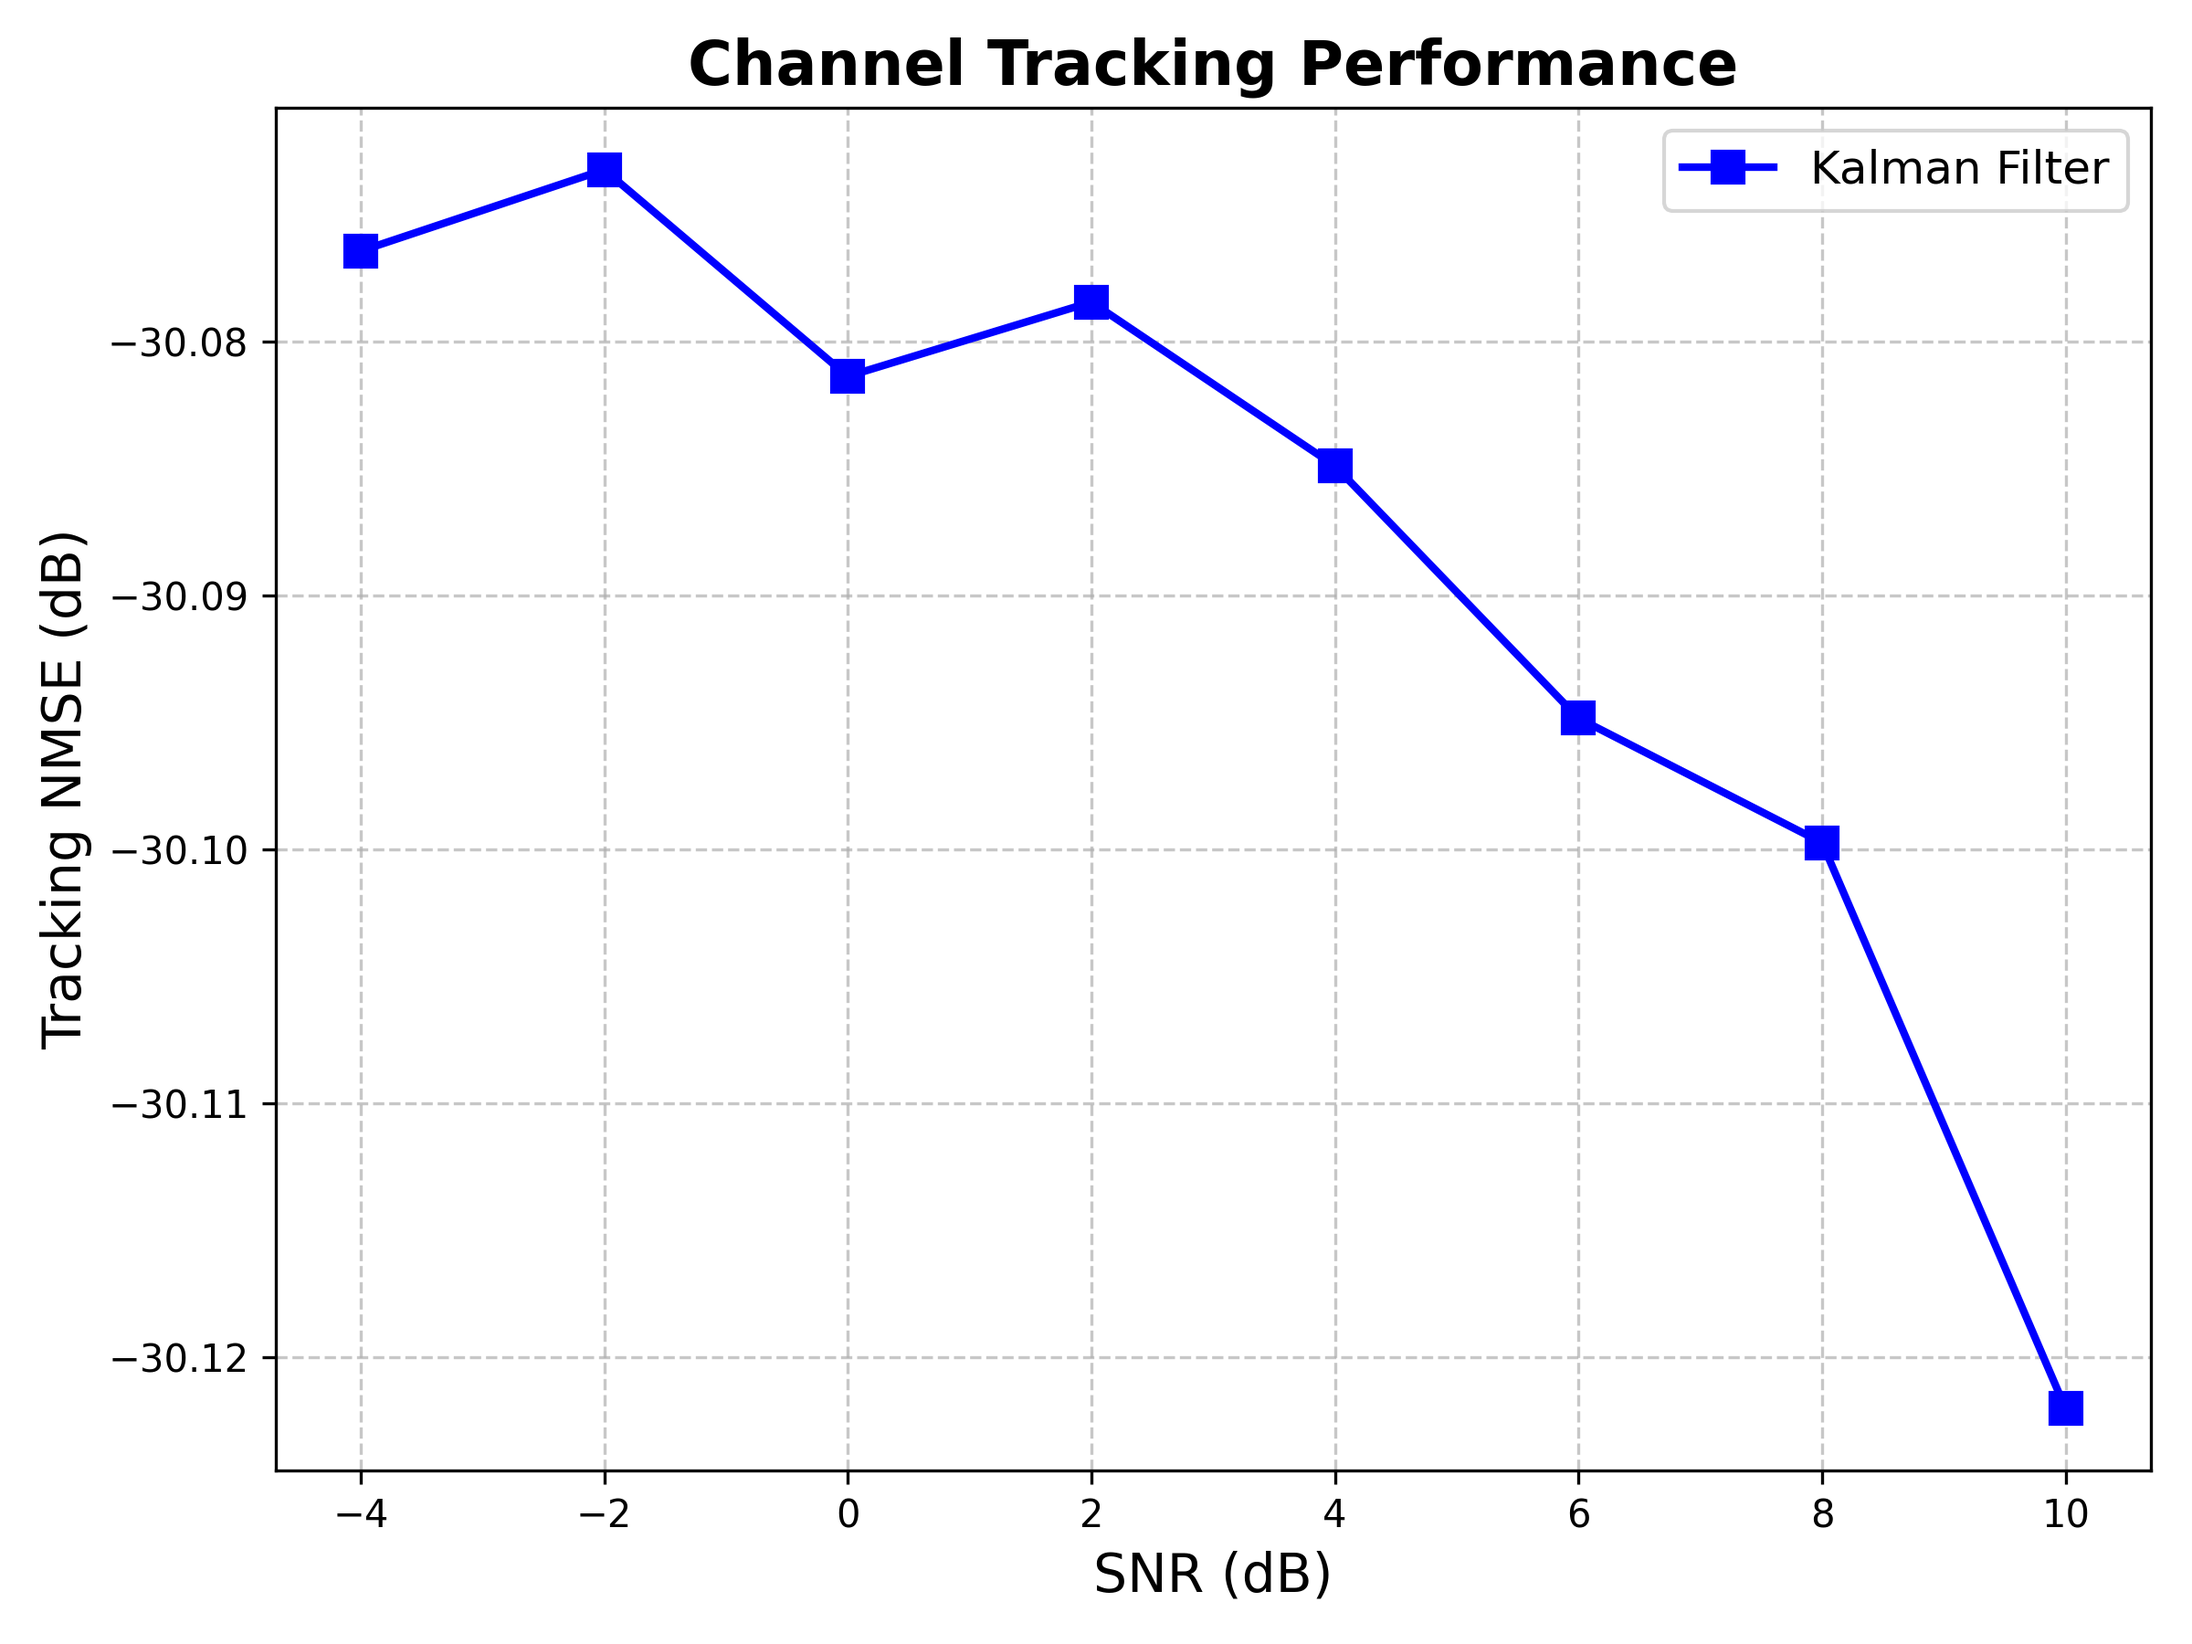
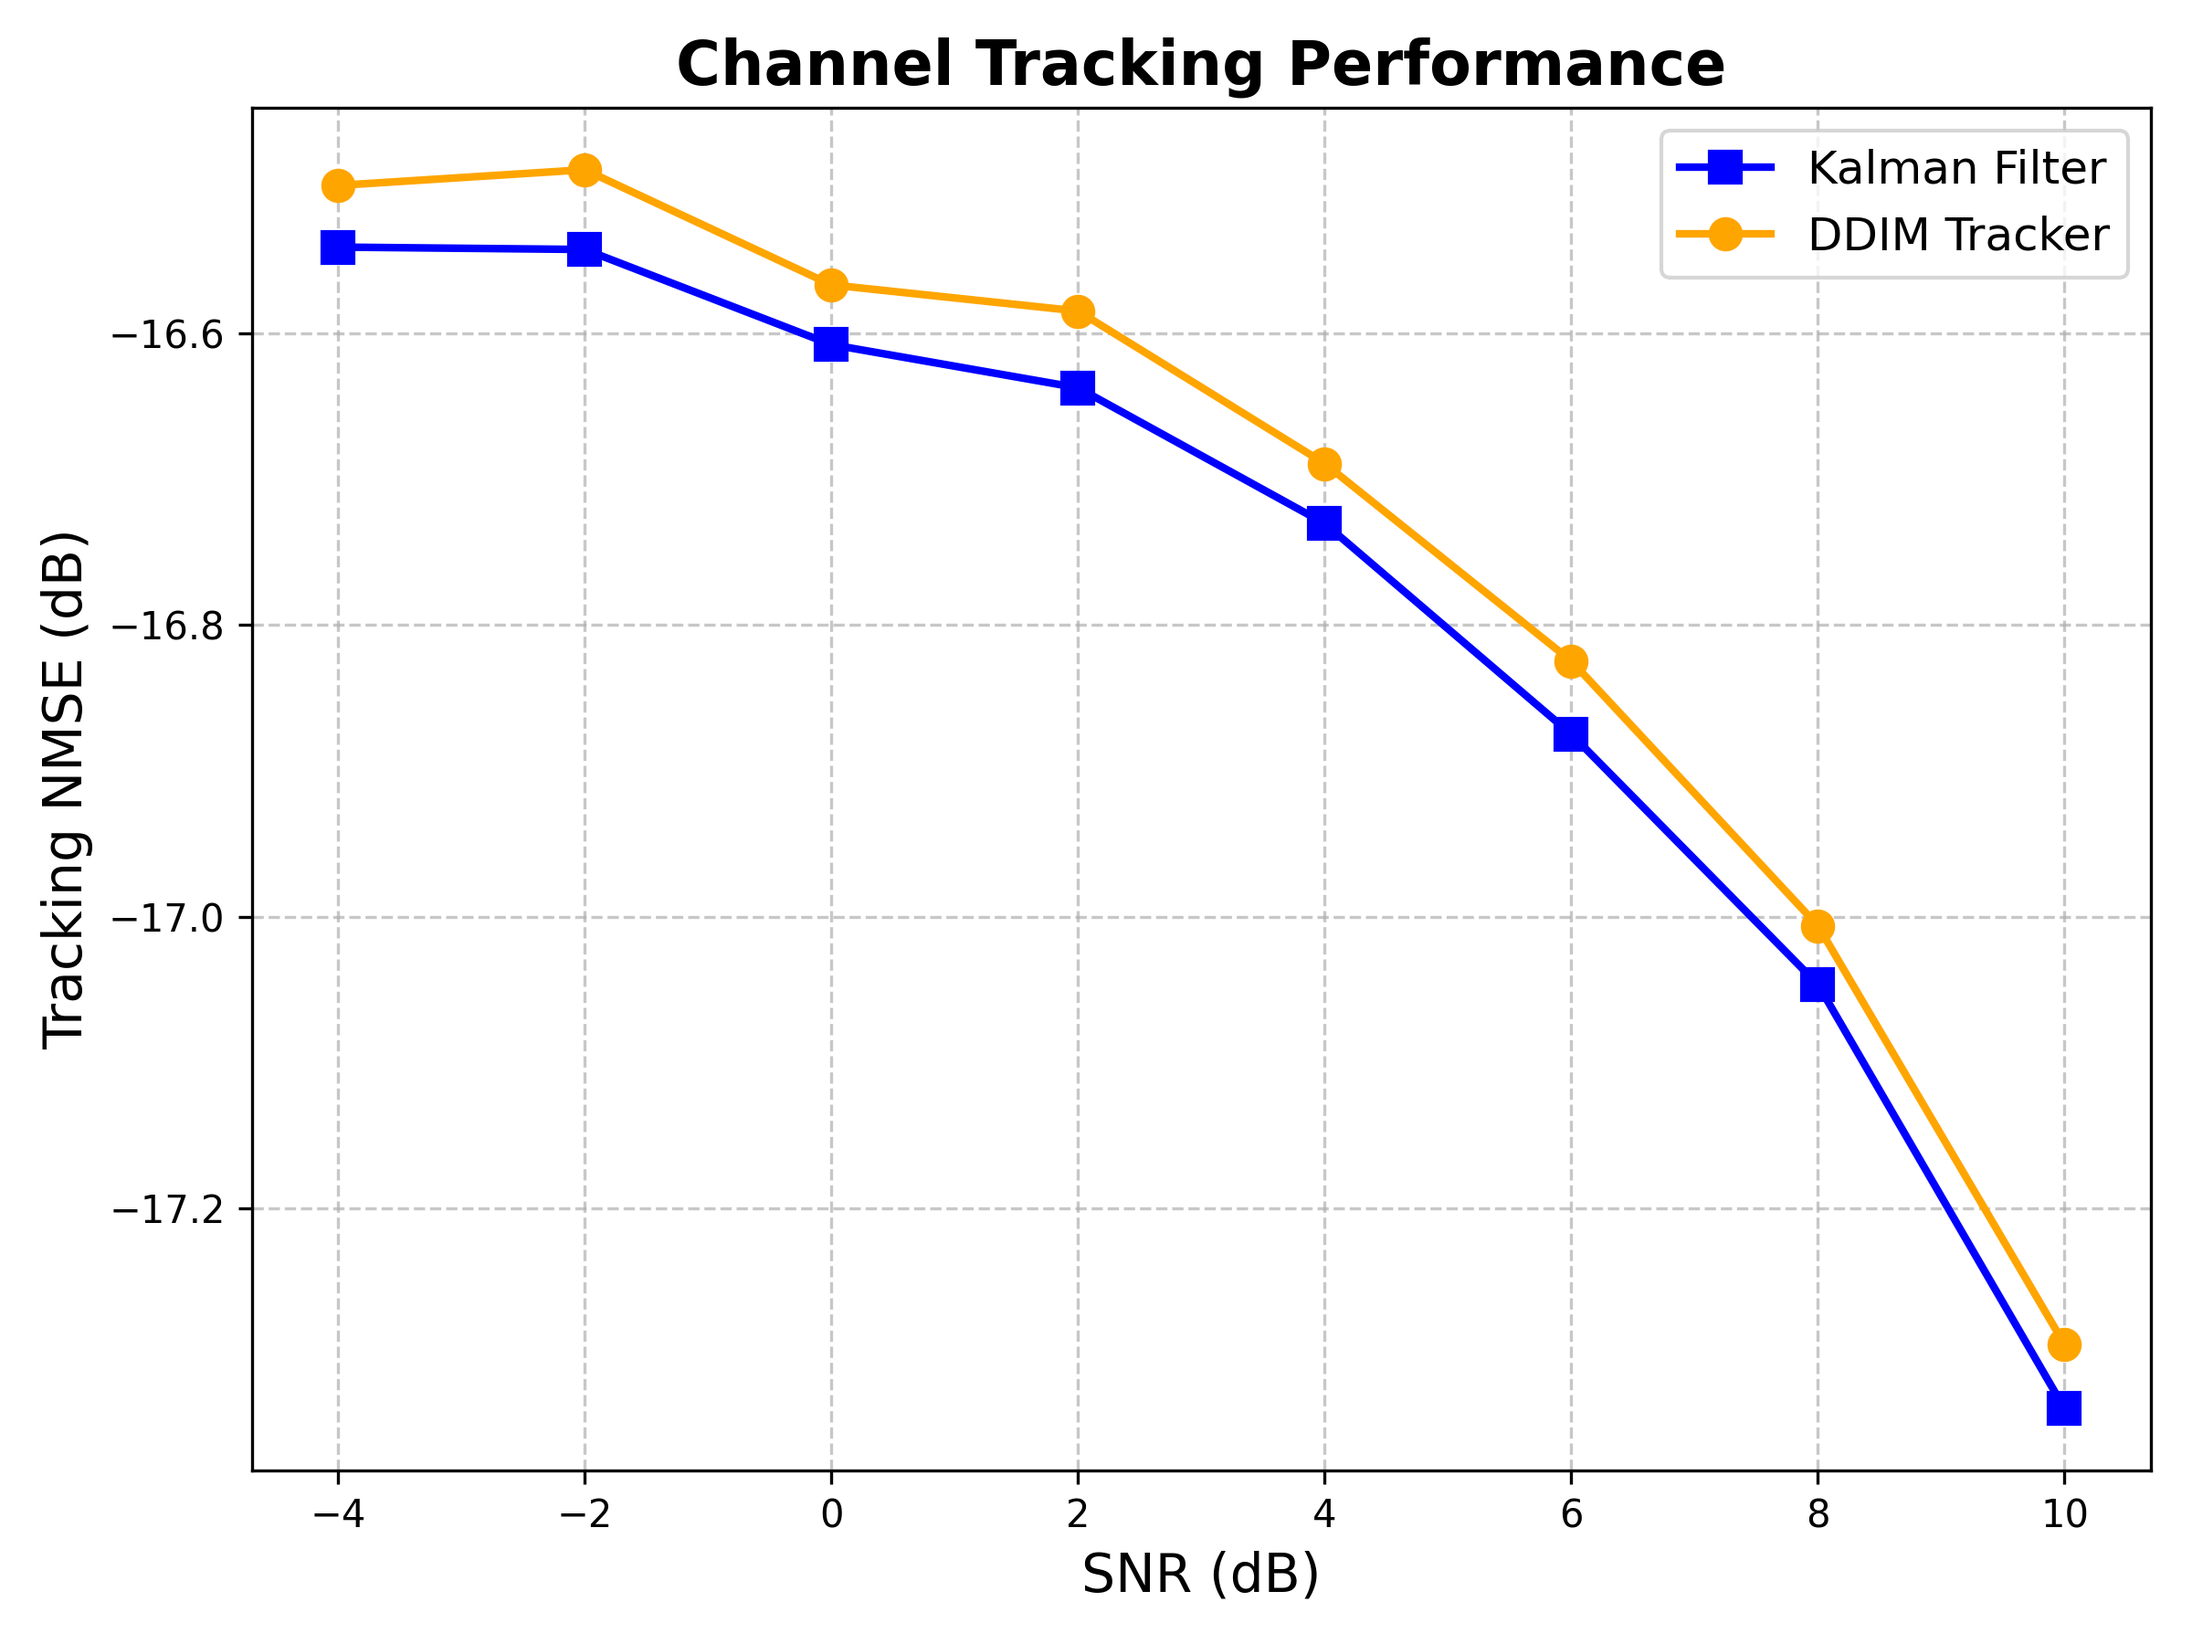
fix(tracker): tune DDIM hyper-parameters (rho=0.9)
- Tuned parameters to match Kalman filter baseline results.
- Experimented with configurations (e.g., K=3, L=0.14, steps=50), achieving best performance of -17.29dB.
- Evaluated increasing timesteps (T=50 to 1000) but observed no performance improvement.

diff --git a/small_scale_channel_tracking/main_tracker.py b/small_scale_channel_tracking/main_tracker.py
@@ -27,16 +27,16 @@ PATIENCE = 15
 # Diffusion Process Settings
 BETA_MIN = 1e-4
 BETA_MAX = 0.02
-T_DIFFUSION = 50.0
+T_DIFFUSION = 1000.0
 
 
 # --- Tunable Tracking Parameters ---
 NUM_TEST_SAMPLES = 3000
-NUM_SAMPLING_STEPS = 50
+NUM_SAMPLING_STEPS = 1000
 # K_START defines how much noise to add to the KF prediction. 
 # For rho=0.995 (very accurate prediction), a small value (15) is perfect. 
 # If tracking faster users (e.g. rho=0.8), you would increase this.
-K_START = 3
+K_START = 10
 GUIDANCE_LAMBDA = 0.1
 # -----------------------------------
 
@@ -130,7 +130,7 @@ elif MODE == 'test':
     nmse_results = []
     
     for snr in config["snr_levels"]:
-        print(f"\n--- Processing SNR = {snr} dB ---")
+        # print(f"\n--- Processing SNR = {snr} dB ---")
         y_obs = observations[snr].to(device)
         
         # 3. Denoise / Track
@@ -159,8 +159,20 @@ elif MODE == 'test':
         nmse_db = 10 * torch.log10(mse / ref).item()
         nmse_results.append(nmse_db)
         
-        print(f"  SNR {snr:2d} dB | DDIM Tracking NMSE: {nmse_db:6.2f} dB")
+        # print(f"  SNR {snr:2d} dB | DDIM Tracking NMSE: {nmse_db:6.2f} dB")
         
+    print("\n" + "="*60)
+    print("FINAL TRACKING NMSE RESULTS")
+    print("="*60)
+    
+    # Format as aligned horizontal arrays
+    snr_str  = " | ".join([f"{snr:6d}" for snr in config["snr_levels"]])
+    nmse_str = " | ".join([f"{nmse:6.2f}" for nmse in nmse_results])
+    
+    print(f"SNR (dB)  : [ {snr_str} ]")
+    print(f"NMSE (dB) : [ {nmse_str} ]")
+    print("="*60 + "\n")
+    
     # 5. Save Results
     res_filename = f"NMSE_Tracker_DDIM_{FREQ_GHZ}GHz.mat"
     res_path = os.path.join(script_dir, "test_results", "NMSE_raw_mats")

diff --git a/small_scale_channel_tracking/diffusion/ddim_sampler_tracker.py b/small_scale_channel_tracking/diffusion/ddim_sampler_tracker.py
@@ -65,7 +65,7 @@ def ddim_tracking_sampler(y_obs_complex, M_complex, x0_tau_complex, rho,
             
             # Gradient: M^H * (y - M * x0) / sigma^2
             err_cplx = y_obs_complex - torch.matmul(x0_hat_phys_cplx, M_complex.t())
-            grad_cplx = torch.matmul(err_cplx, M_complex.conj()) / max(sigma_n2, 0.1)
+            grad_cplx = torch.matmul(err_cplx, M_complex.conj()) / (sigma_n2 + 1e-12)
             
             # Map complex gradient back to normalized real space (Chain Rule)
             grad_real = complex_to_real_concat(grad_cplx)
@@ -91,7 +91,7 @@ def ddim_tracking_sampler(y_obs_complex, M_complex, x0_tau_complex, rho,
         x0_hat_phys_real = x0_hat_final_norm * data_std + data_mean
         x0_hat_phys_cplx = real_to_complex_concat(x0_hat_phys_real)
         err_cplx = y_obs_complex - torch.matmul(x0_hat_phys_cplx, M_complex.t())
-        grad_cplx = torch.matmul(err_cplx, M_complex.conj()) / max(sigma_n2, 0.1)
+        grad_cplx = torch.matmul(err_cplx, M_complex.conj()) / (sigma_n2 + 1e-12)
         grad_norm = complex_to_real_concat(grad_cplx) * data_std
         
         x0_hat_final_guided_norm = x0_hat_final_norm + guidance_lambda * grad_norm

diff --git a/small_scale_channel_tracking/test_results/NMSE_plot.py b/small_scale_channel_tracking/test_results/NMSE_plot.py
@@ -11,7 +11,7 @@ import numpy as np
 FILES = {
     "Kalman Filter": "NMSE_Baseline_Kalman_Filter.mat",
     # Once you finish the DDIM testing script, you can simply uncomment and add its .mat file here:
-    # "DDIM Tracker": "NMSE_Tracker_DDIM_39GHz.mat", 
+    "DDIM Tracker": "NMSE_Tracker_DDIM_39GHz.mat", 
 }
 
 STYLES = {

diff --git a/small_scale_channel_tracking/data/generate_tracking_test_dataset.py b/small_scale_channel_tracking/data/generate_tracking_test_dataset.py
@@ -23,7 +23,7 @@ NUM_TEST_SAMPLES = 3000
 SNR_LEVELS = [-4, -2, 0, 2, 4, 6, 8, 10]
 
 # Tracking Physics Parameters
-RHO = 0.995        # Temporal correlation (velocity dependent)
+RHO = 0.900        # Temporal correlation (velocity dependent)
 NUM_PILOTS = 5     # T >= r_T
 
 # Input Paths
